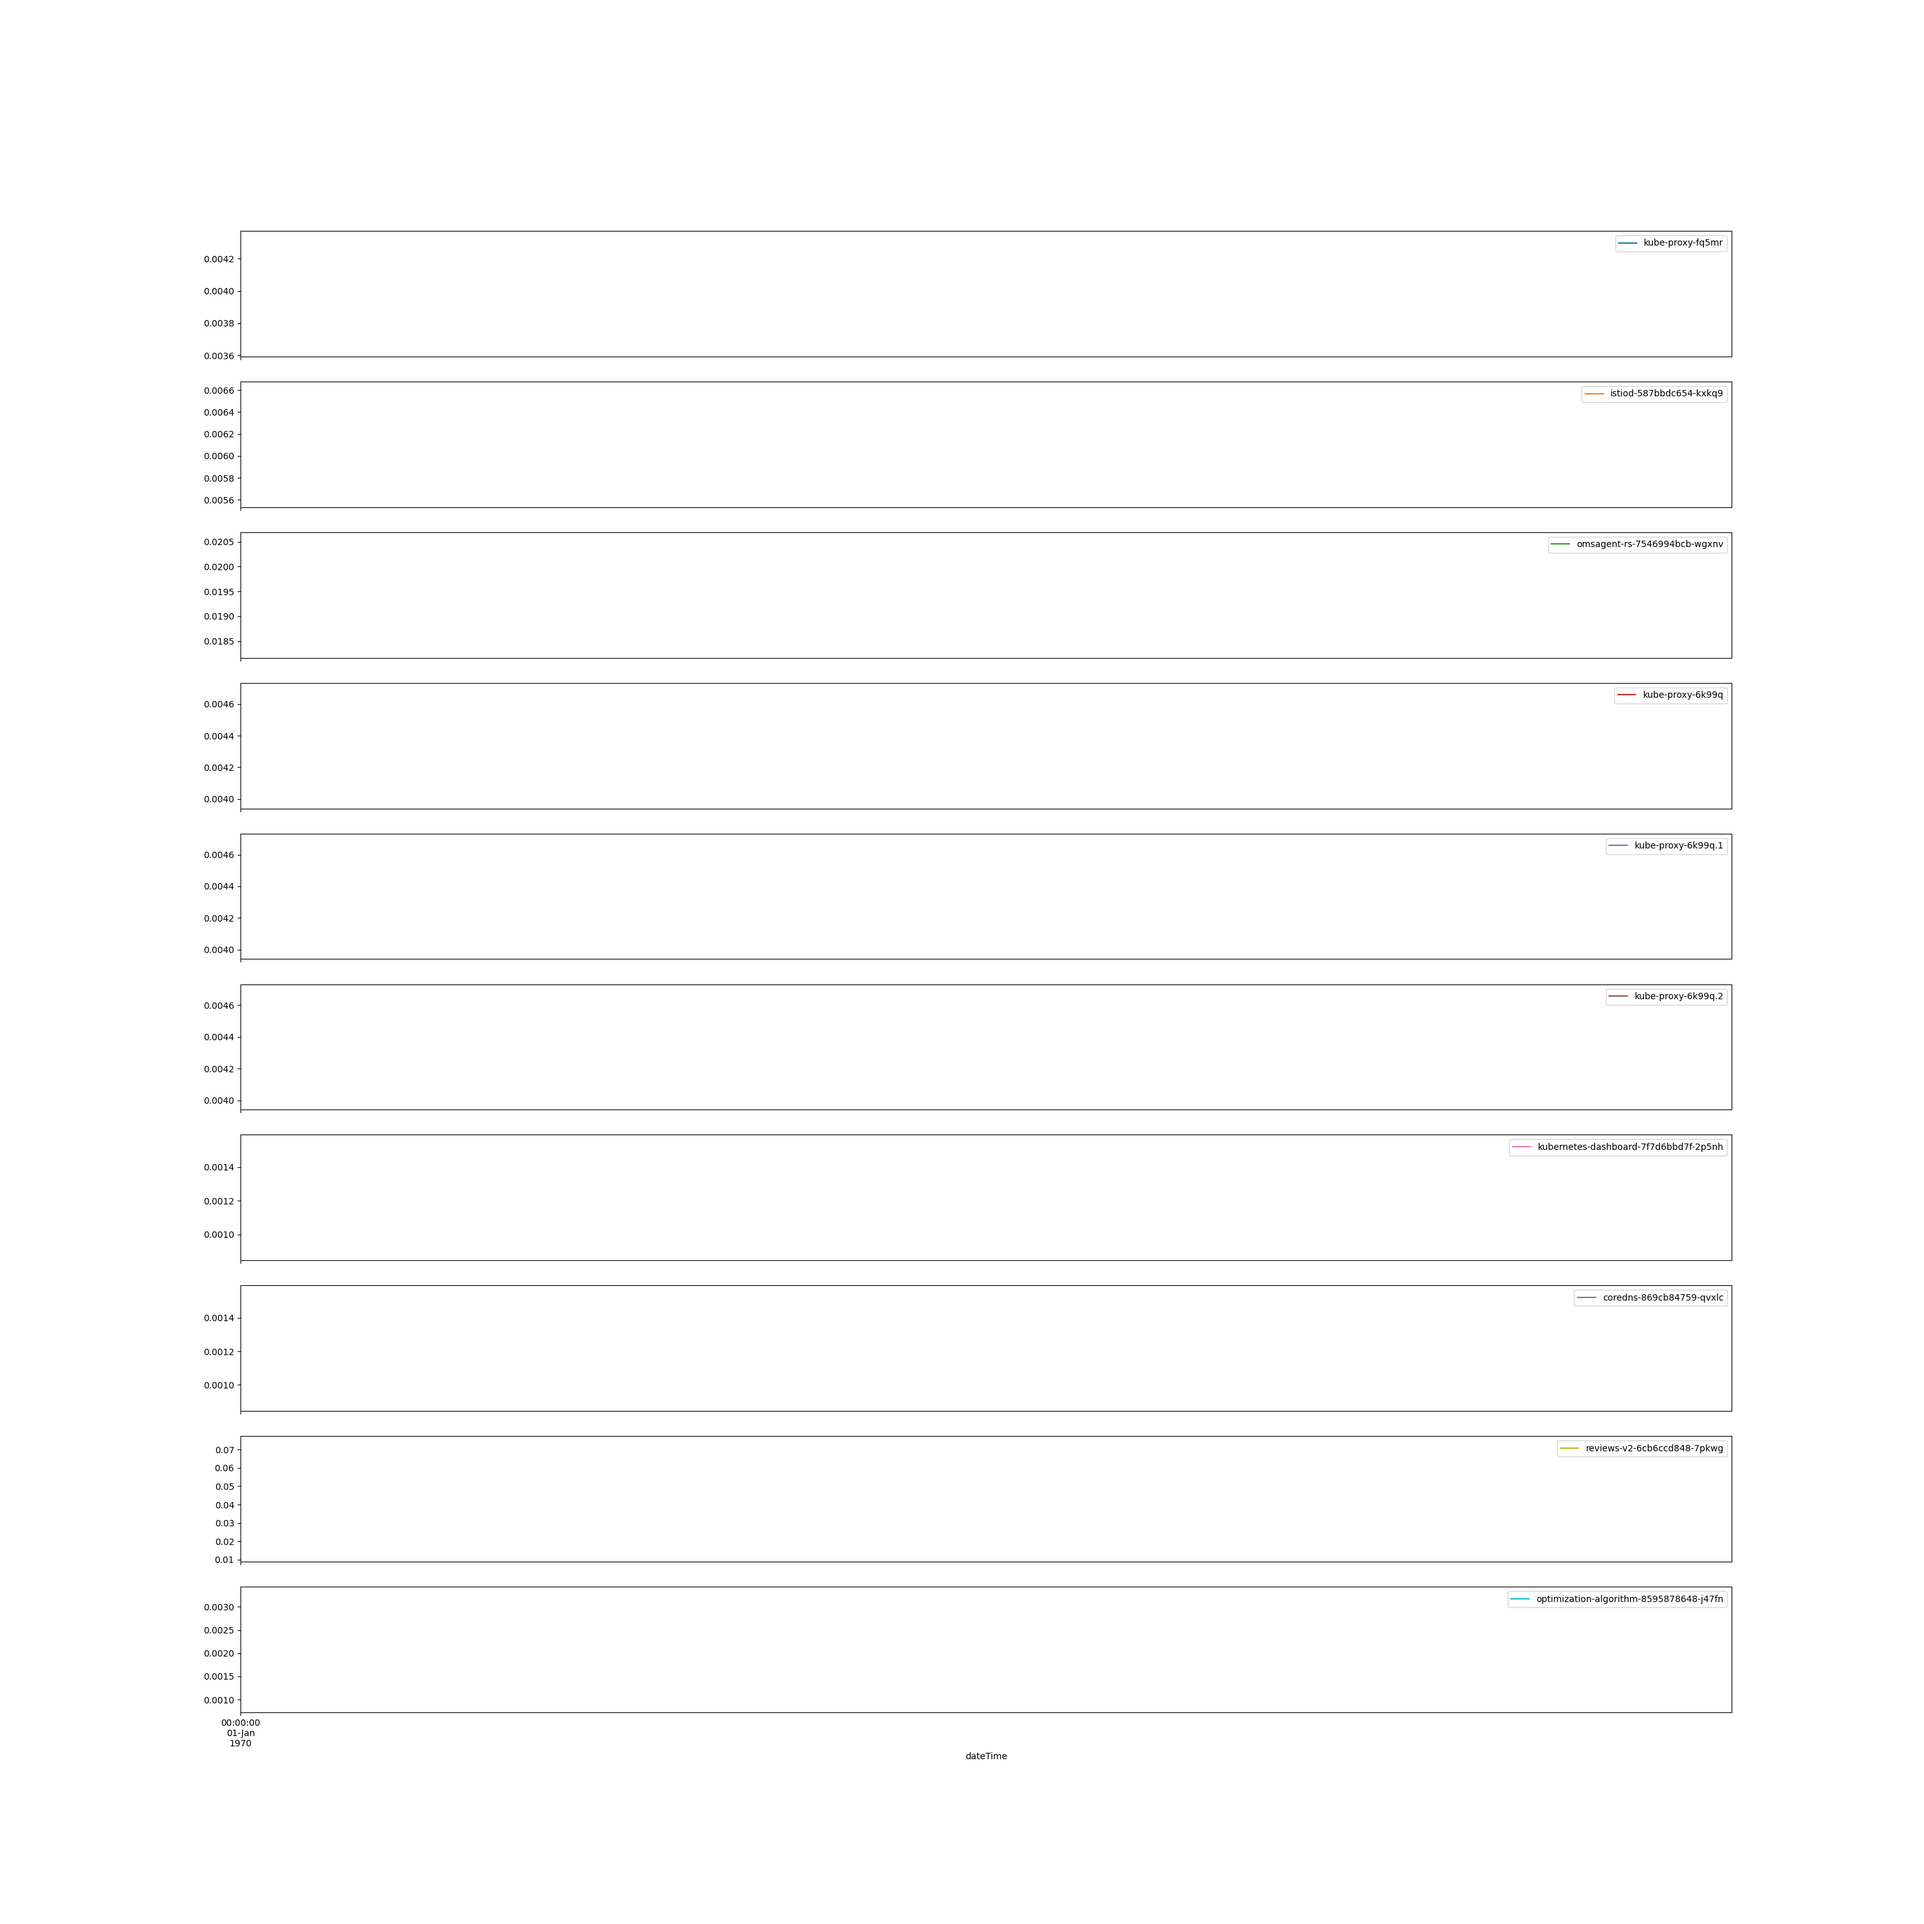
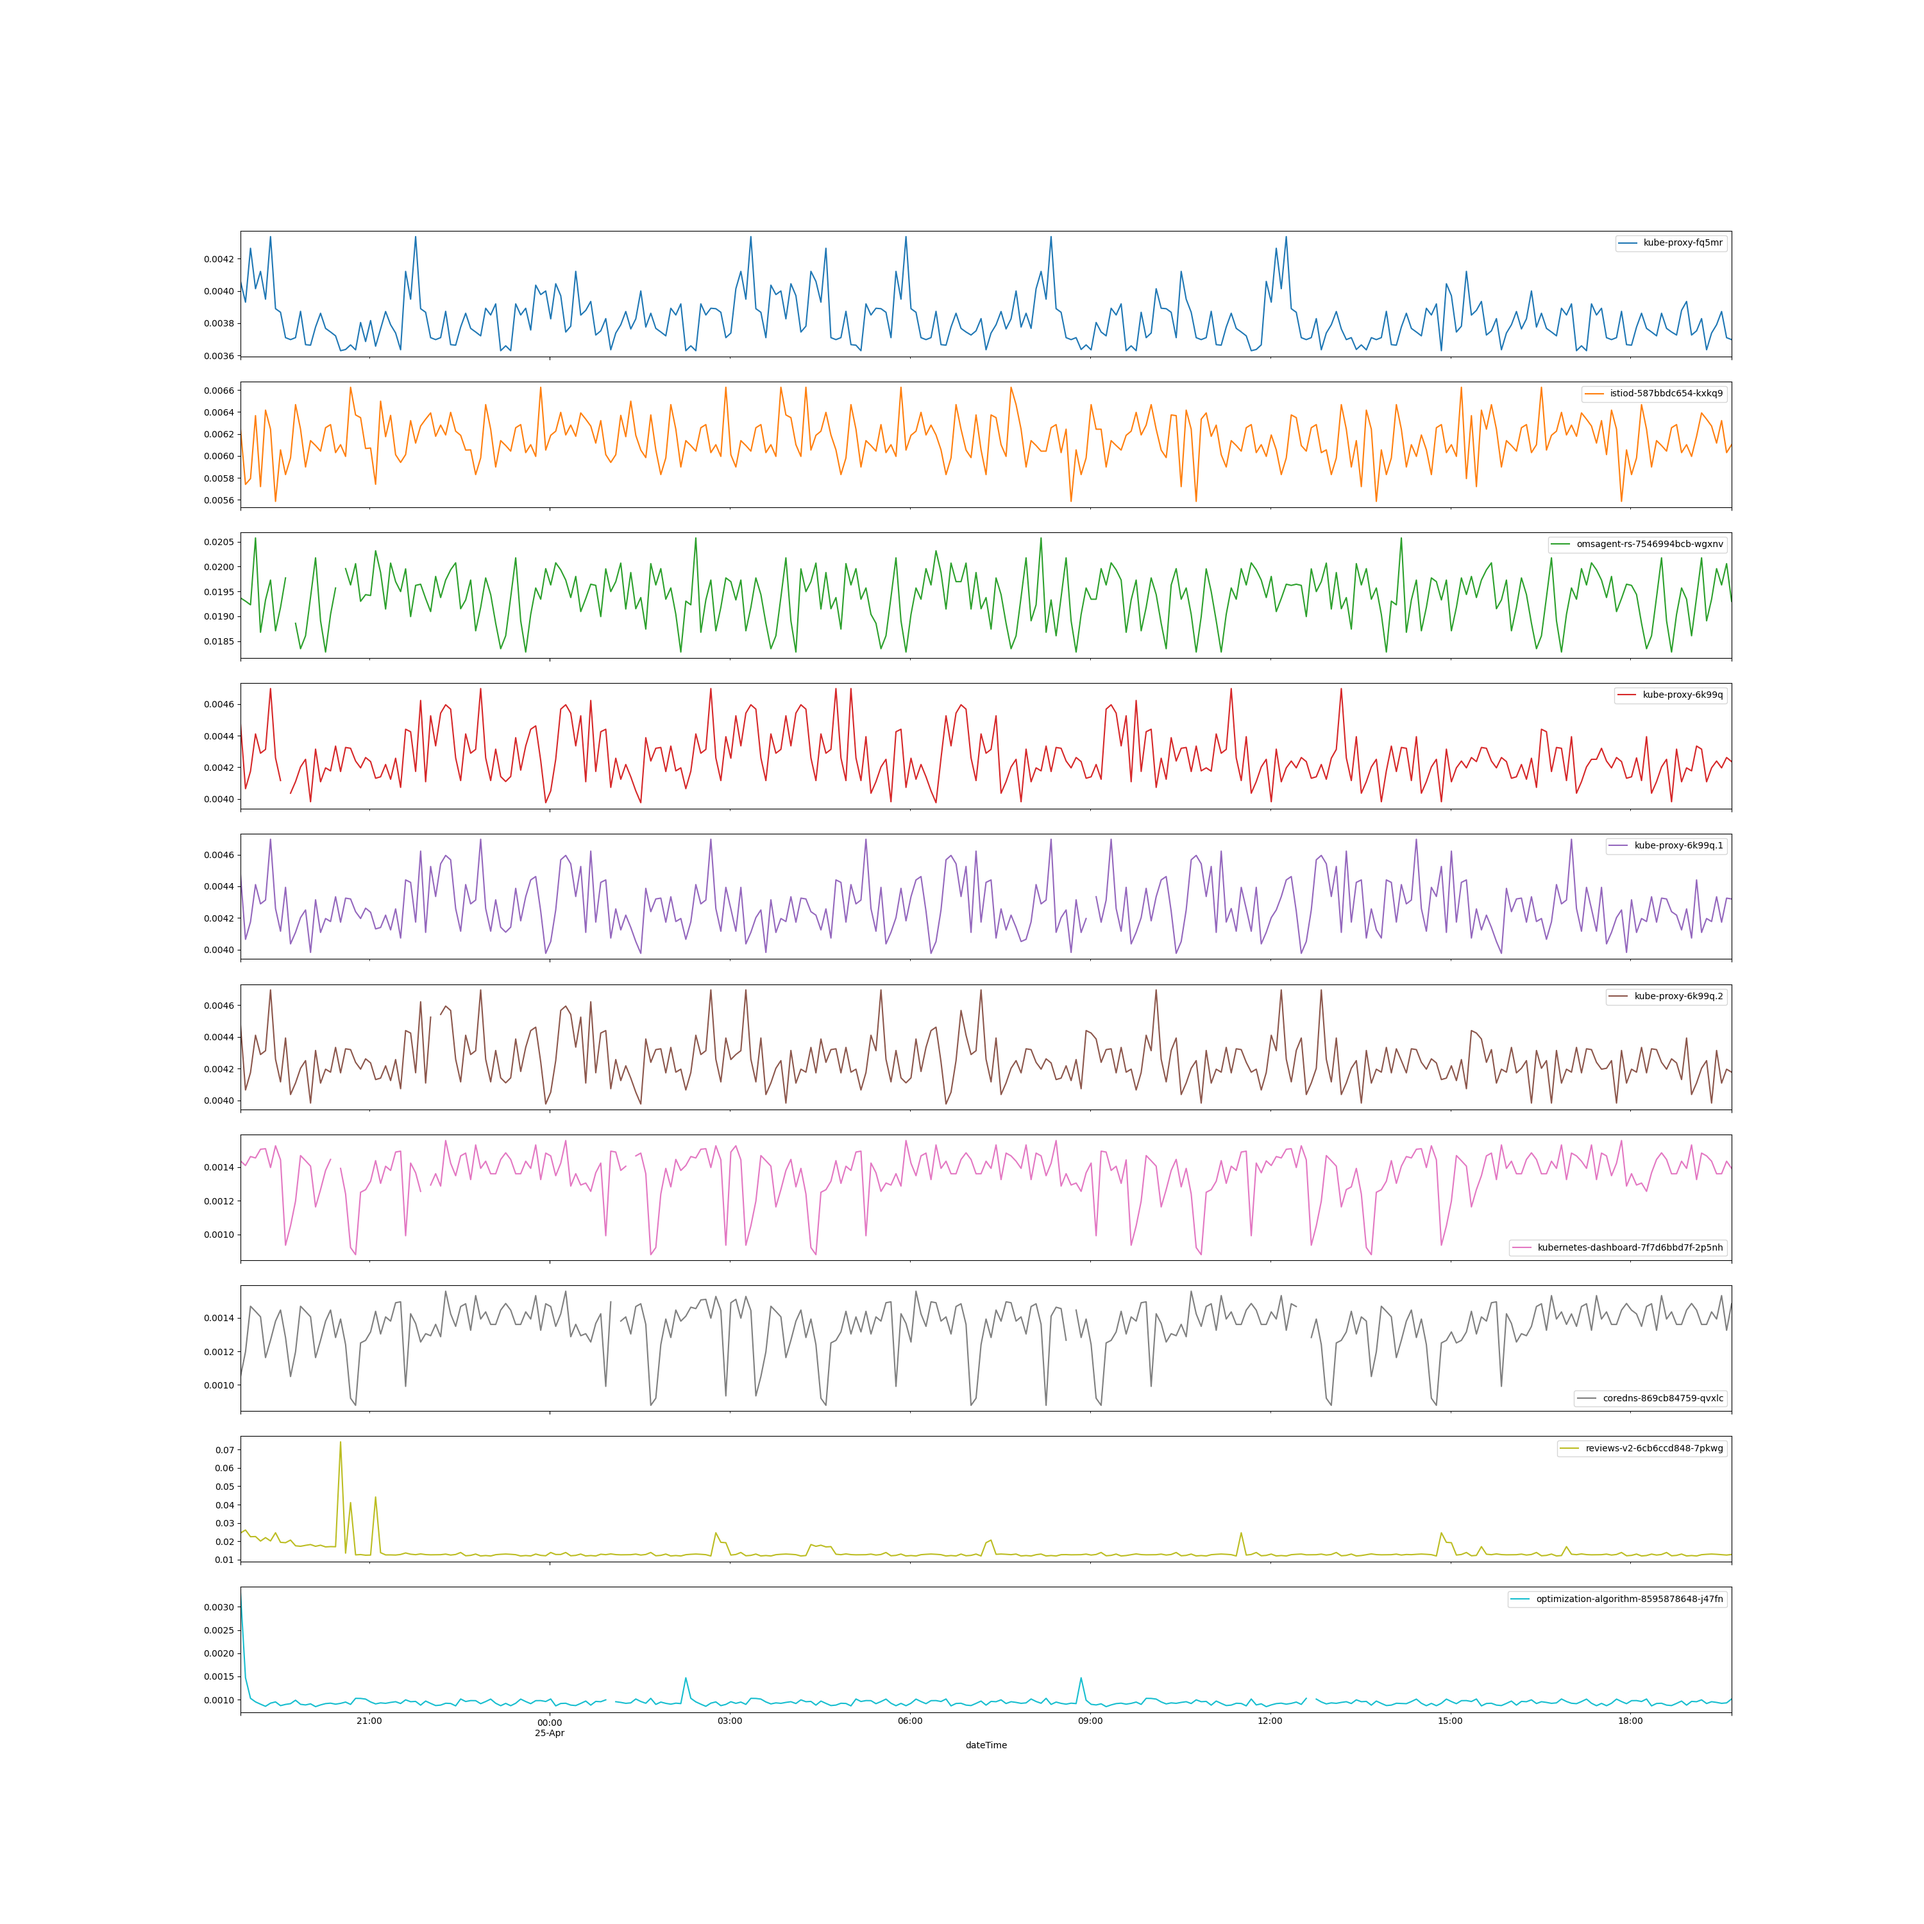
Plot the timeseries summary

diff --git a/src/optimize_server/app/util/graph_plot_util.py b/src/optimize_server/app/util/graph_plot_util.py
@@ -32,8 +32,7 @@ def timeseries_histogram(dataframe):
 
 def timeseries_subplot(dataframe):
         dataframe.plot(subplots=True, figsize=(30,30))
-        path = os.getcwd() + '/app/results/timeseries_history/cpu/summary/timeseries_subplots.png'
-        plt.xlim([0, 0.04])
+        path = os.getcwd() + '/app/results/timeseries_history/cpu/summary/timeseries_subplots.png'        
         plt.savefig(path)
         plt.close('all')
 
